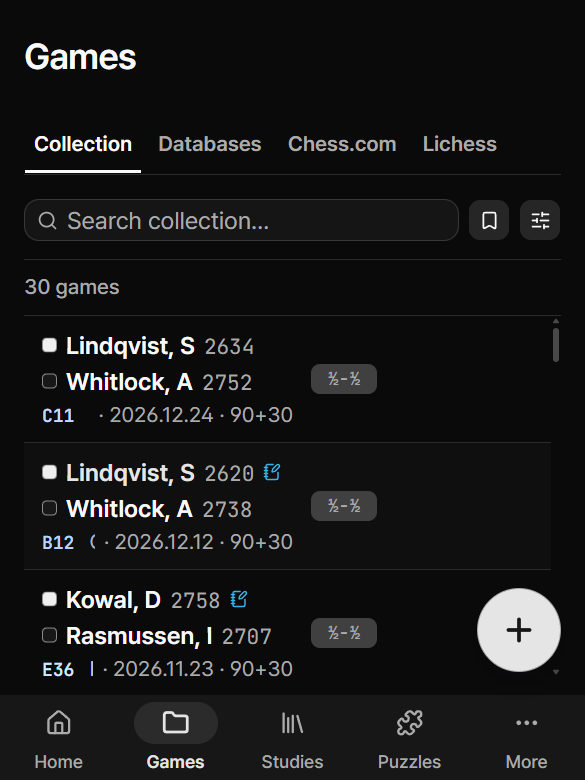
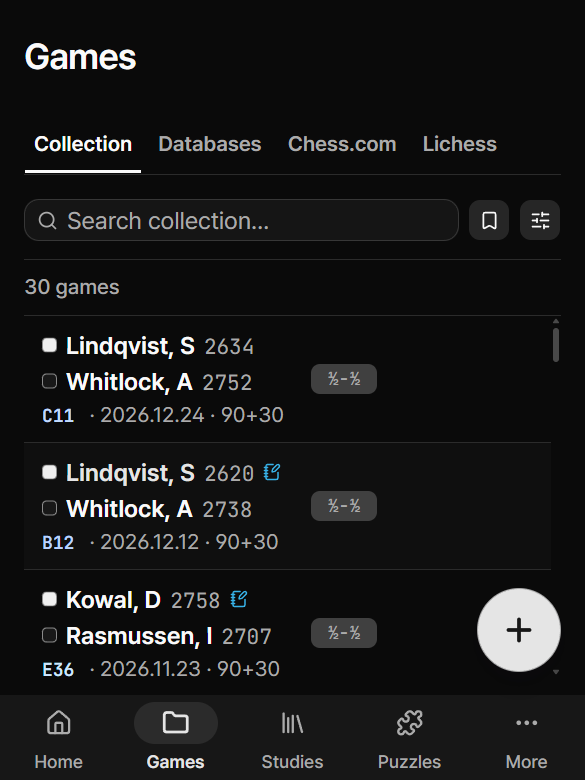
Drop an opening name rather than clip it to a stray character
The family name is the one thing on a game row's detail line that gives
way, and flexbox will shrink it to any width at all. Under the ellipsis's
own width (10.7px at 14px) Chrome draws no ellipsis and clips the glyph
instead: "Caro-Kann Defense", in the 10.3px box a 390px window gives it,
came out as a lone "(" between the B12 chip and the date, which reads as
a character somebody typed rather than as a name cut short. It is the
misread the ECO code used to give before the code was taken out of the
truncating box, one box further along, and it takes the same answer.

CSS cannot express "this width or none". Flexbox shrinks an item to
whatever is left over, and a container query cannot ask either, because
the box whose width is in question is the one that would have to be the
container. So EcoName measures the room it is given and withdraws under
two letters and the ellipsis: 27.9px at 14px, written in em so the game
sheet's 12px detail block gets the same rule at its own size. The room is
read off the LINE and never off the span once it is hidden, or a name
that gave way would never be handed anything back; a row scrolled out of
view is skipped by content-visibility and lays nothing out, so a width of
zero is not taken for an answer.

WHAT IT COST. One ResizeObserver on the line per name, and two layout
reads per measure. Proved with shots:grid over #/games against the same
build's baseline: the 375px phone pair is byte-identical, the desktop
[…]

Changed region(s): [[0.1538, 0.8308, 0.4923, 0.8923], [0.1538, 0.6769, 0.5231, 0.7077], [0.1538, 0.5231, 0.5231, 0.5538]]

diff --git a/web/src/games/shared.tsx b/web/src/games/shared.tsx
@@ -4,7 +4,7 @@ import {
   MoreHorizontal,
   NotebookPen,
 } from 'lucide-react';
-import { useEffect, useRef, useState } from 'react';
+import { useCallback, useEffect, useLayoutEffect, useRef, useState } from 'react';
 
 import { Board } from '@/board/Board';
 
@@ -698,11 +698,91 @@ export function EcoChip({ eco, flush = false }: { eco: string; flush?: boolean }
   );
 }
 
-/** The opening's family, in the code's own hue a step lighter. */
+/**
+ * The narrowest box a name may be given before it is dropped instead, in
+ * the name's own em.
+ *
+ * MEASURED on the demo at 14px: the ellipsis alone is 10.7px, and "Ca…"
+ * is 27.9px. Under the first, Chrome draws no ellipsis at all and clips
+ * the glyph instead — "Caro-Kann Defense" in the 10.3px box a 390px
+ * window gave it came out as a lone "(" between the B12 chip and the
+ * date, which reads as a stray character rather than as a name cut
+ * short. That is the misread the CODE used to give (see EcoChip), one
+ * box further along, and it takes the same answer: a run too narrow to
+ * say anything true says nothing, and the chip beside it is already the
+ * whole of what a list is scanned by. Between the two widths you get
+ * "C…", which is honest and empty. So the floor is two letters and the
+ * ellipsis, in em rather than px so the 12px detail block in the game
+ * sheet gets the same rule at its own size.
+ */
+const NAME_FLOOR_EM = 2;
+
+/**
+ * The opening's family, in the code's own hue a step lighter — and
+ * nothing at all in a box under NAME_FLOOR_EM.
+ *
+ * WHY THE ROOM IS MEASURED. Flexbox shrinks an item to whatever is left
+ * over; there is no way to tell it "this width or none". A container
+ * query cannot ask either, because the box whose width is in question is
+ * the one that would have to be the container. So the room is read off
+ * the LINE, and never off this span once it has been withdrawn: a
+ * display:none box has no width, and a name that gave way would never be
+ * given anything back.
+ */
 export function EcoName({ eco, name, className }: { eco: string; name: string; className?: string }) {
+  const self = useRef<HTMLSpanElement>(null);
+  // The same answer as `room`, readable from inside measure() without
+  // rebuilding it (and the observer holding it) on every flip.
+  const shown = useRef(true);
+  const [room, setRoom] = useState(true);
+
+  const measure = useCallback((): void => {
+    const el = self.current;
+    const line = el?.parentElement;
+    if (!el || !line) return;
+    // A row scrolled out of view is skipped by `content-visibility`
+    // (GameListShell) and lays nothing out. Keep the last answer rather
+    // than take a width of zero for one.
+    if (!line.clientWidth) return;
+    const gap = parseFloat(getComputedStyle(line).columnGap) || 0;
+    let width: number;
+    if (shown.current) {
+      width = el.getBoundingClientRect().width;
+    } else {
+      // Withdrawn: the space left at the end of the line, one gap short
+      // of it. Everything else on the line is shrink-0, so that is the
+      // width the name would be handed back.
+      const start = line.getBoundingClientRect().left + line.clientLeft;
+      let used = 0;
+      for (const kid of line.children) {
+        if (kid !== el) used = Math.max(used, kid.getBoundingClientRect().right - start);
+      }
+      width = line.clientWidth - used - gap;
+    }
+    const fits = width >= NAME_FLOOR_EM * parseFloat(getComputedStyle(el).fontSize);
+    if (fits === shown.current) return;
+    shown.current = fits;
+    setRoom(fits);
+  }, []);
+
+  // Every render: a rename or a density change rewrites the boxes beside
+  // the name without resizing the line, and this is also the first read.
+  useLayoutEffect(measure);
+  useLayoutEffect(() => {
+    const line = self.current?.parentElement;
+    if (!line) return;
+    // The LINE is what is watched. It is a block-level flex container, so
+    // it holds its parent's width whatever is inside it: withdrawing the
+    // name cannot resize it, and there is no loop to guard against.
+    const watch = new ResizeObserver(measure);
+    watch.observe(line);
+    return () => watch.disconnect();
+  }, [measure]);
+
   return (
     <span
-      className={className}
+      ref={self}
+      className={cn(className, !room && 'hidden')}
       style={{ color: `oklch(${ecoLightness(eco, '--eco-name-l')} var(--eco-name-c) ${ECO_HUE})` }}
     >
       {name}

diff --git a/docs/update-log.ko.md b/docs/update-log.ko.md
@@ -5,6 +5,20 @@
 무엇이 바뀌었는지 최신순으로 적었습니다. 커밋 장부가 아니라 기능 단위의
 기록이며, 자세한 내용은 `git log`에 있습니다.
 
+## Unreleased
+
+- **오프닝 이름을 글자 조각으로 자르는 대신 감춥니다.** 게임 줄이 좁아질 때
+  자리를 내주는 것은 오프닝의 계열 이름 하나인데, 그 폭이 11px쯤보다 좁아지면
+  브라우저가 말줄임표를 그리지 못하고 글자를 그대로 잘라 냅니다. "Caro-Kann
+  Defense"가 B12 칩과 날짜 사이에 "(" 한 글자로 남아, 잘린 이름이 아니라 누가
+  잘못 적어 넣은 글자처럼 보였습니다. 이제 이름은 글자 두 개와 말줄임표가
+  들어갈 자리, 14px 기준 27.9px를 얻지 못하면 아예 그리지 않습니다. 그 자리에
+  남던 폭 0의 상자도 함께 사라져서, 320px의 줄은 다른 값들과 같은 간격으로
+  "B12 · 2026.12.12"이라고 읽힙니다. 마우스로 창을 360~400px까지 줄였을 때가
+  가장 심했습니다. 그 폭에서 줄의 포인터 동작 아이콘이 나타나 이름에서 30px을
+  가져가기 때문입니다. 휴대폰의 375px 줄은 달라지지 않았고, 430px보다 넓은
+  곳에서는 이 기준선에 닿은 적이 없습니다.
+
 ## 0.9.3
 
 게임의 네 탭이 한 가지 줄을 그립니다. 동작은 줄의 메뉴로 들어갔고, ECO

diff --git a/docs/update-log.md b/docs/update-log.md
@@ -5,6 +5,22 @@
 What changed, newest first. Feature-level entries, not a commit ledger —
 `git log` has the full detail.
 
+## Unreleased
+
+- **An opening name is dropped rather than clipped to a stray character.**
+  The family name on a game row is the one thing that gives way as the row
+  narrows, and under about 11px the browser stops drawing the ellipsis and
+  clips the glyph instead: "Caro-Kann Defense" came out as a lone "("
+  between the B12 chip and the date, which reads as a character somebody
+  typed rather than as a name cut short. A name now needs two letters and
+  the ellipsis, 27.9px on the 14px line it is set in, or it is not drawn at
+  all. The zero-width box it used to leave behind is gone with it, so a
+  320px row reads "B12 · 2026.12.12" with the gap every other pair of
+  values has. Worst in a 360 to 400px window on a mouse, where the row's
+  hover controls appear and take 30px back from the name; the phone rows
+  at 375px are unchanged, and nothing wider than 430px ever reached the
+  floor.
+
 ## 0.9.3
 
 The games rows draw one shape across the four tabs: the verbs moved into
